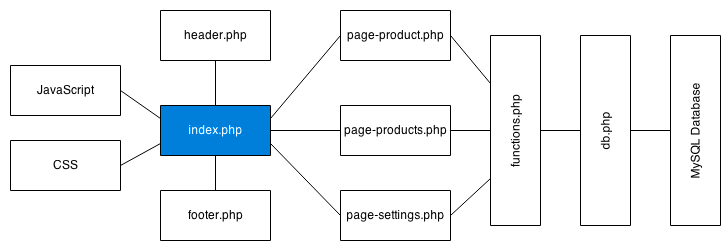
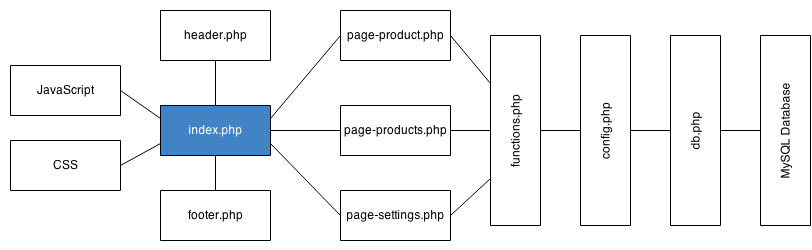
Added empty functions and structure for db.php
* Added empty functions för database handling.
* Added config.php for executing and handling configuration of the
system.
* Updated UML diagram to reflect changes in file structure.
* Added the files class-product.php and class-user.php for holding the
product and user classes.

diff --git a/jaws-includes/db.php b/jaws-includes/db.php
@@ -1,4 +1,120 @@
 <?php
 
-
-?>
+class Database {
+    private $database = "";
+    
+    public function __construct($dbHost,$dbUser,$dbPassword,$dbName) {
+        $database = mysqli_connect($dbHost,$dbUser,$dbPassword,$dbName) or die("Error " . mysqli_error($database));
+    }
+    
+    /*  #################################
+        User
+    */  #################################
+    
+    public function addUser() { // Adds a user to the database.
+        return true or false;
+    }
+    
+    public function editUser() { // Edits a user and returns a boolean.
+        return true or false;
+    }
+    
+    public function deleteUser() { // Returns a user.
+        return true or false;
+    }
+    
+    public function getUser() { // Returns a user.
+        return array;
+    }
+    
+    public function getUsers() { // Returns an array of users.
+        return array;
+    }
+    
+    // Purchase
+    
+    public function getUsersPurchases() {
+        
+    }
+    
+    // Login
+    
+    public function matchPassword(string email, string password) {
+        return true or false;
+    }
+    
+    // Card
+    
+    public function addCard() { // Adds a card
+        
+    }
+    
+    public function removeCard() { // Removes a card
+        
+    }
+    
+    public function editCard() { // May not be needed, cards never get changed.
+        
+    }
+    
+    /*  #################################
+        Purchase
+    */  #################################
+    
+    public function addPurchase($personalNr,$discount,$chargedCard,$purchaseList) { // Adds a purchase to the database.
+        
+        $time = getUnixTime(); // Get unixtime
+        // ADD PURCHASE TO TABLES
+        addPurchaseList($purchaseList,$purchaseId); // Call function for adding a purchaseList into the appropriate table.
+        return true/false;
+        
+    }
+    
+    private function addPurchaseList($purchaseList,$purchaseId) { 
+        // LOOP THROUGH ARRAY AND ADD EVERY ROW INTO TABLE
+    }
+    
+    public function editPurchase($purchaseId) { // Edit a purchase
+        return true/false;
+    }
+    
+    public function removePurchase($purchaseId) { // Removes a purchase and associated purchased items (purchaseList)
+        return true/false;
+    }
+    
+    public function getPurchase($purchaseId) { // Returns a purchase
+        return array;
+    }
+    
+    /*  #################################
+        Product
+    */  #################################
+    
+    public function searchProducts($query){ //Return an array of items matching query
+        return array;
+    }
+    
+    public function addProduct() { // Adds a product to the database.
+        return True/False;
+    }
+    
+    public function editProduct() { // Edits a product and returns a boolean.
+        return True/False;
+    }
+    
+    public function deleteProduct() { // Returns a product.
+        return True;
+    }
+    
+    public function getProduct() { // Returns a product.
+        return array;
+    }
+    
+    public function getProducts() { // Returns an array of products.
+        return array;
+    }
+    
+    /*  #################################
+        Category/Taxanomies TO BE DETERMINED
+    */  #################################     
+}

diff --git a/jaws-includes/config.php b/jaws-includes/config.php
@@ -1,0 +1,11 @@
+<?php
+include 'db.php';
+
+$dbHost = "";
+$dbUser = "";
+$dbPassword = "";
+$dbName = "";
+
+$db = new Database($dbHost,$dbUser,$dbPassword,$dbName);
+
+?>
